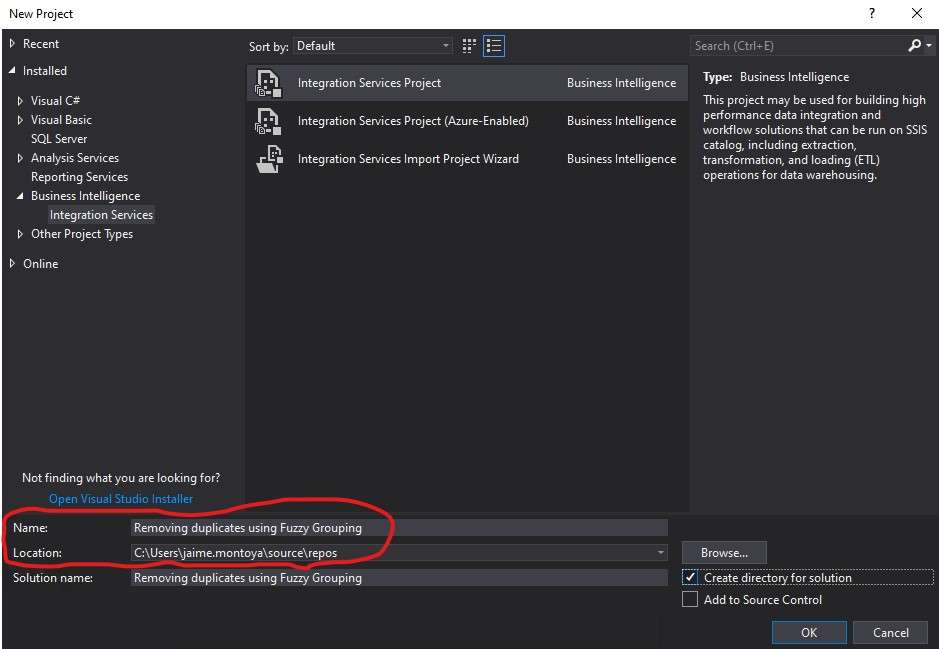
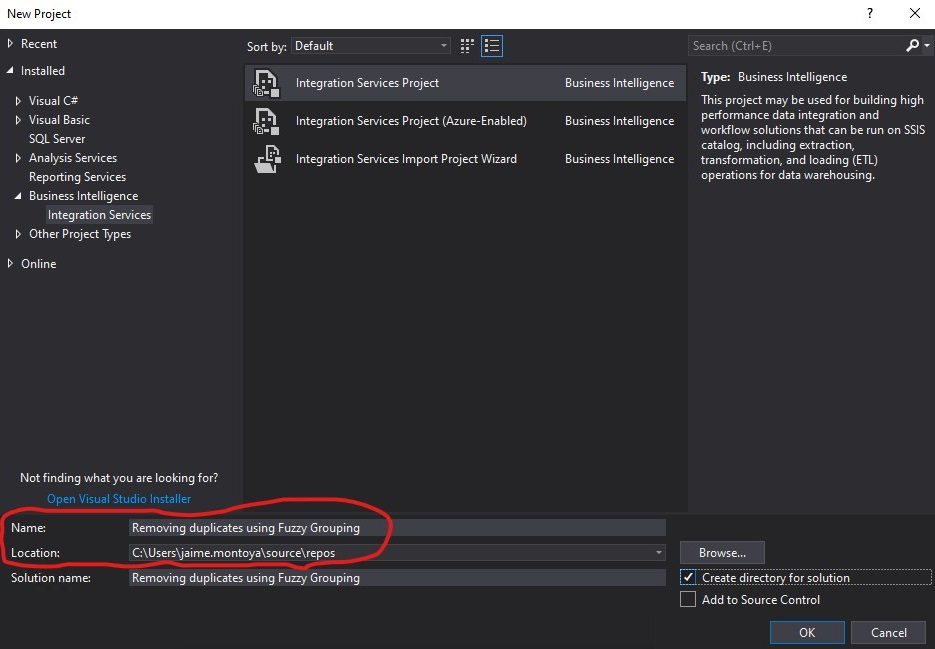
Modify picture.

diff --git a/blog/2023/12/12/05/59/book-info-20231212-0559.php b/blog/2023/12/12/05/59/book-info-20231212-0559.php
@@ -1,4 +1,4 @@
 <?php
   $index->content .= 
-           "<p>I used <a href=\"includes/FuzzyGroupingExample.txt\">FuzzyGroupingExample.txt</a> to create my reference table. I opened Visual Studio and created a new project:</p><div><img src=\"/blog/2023/12/12/05/59/img/createNewProject.jpg\" alt=\"Create new project\" width=\"619\" height=\"119\"></div><p>I provided a name and location for my new project:</p><div><img src=\"/blog/2023/12/12/05/59/img/provideNameAndLocationForNewProject.jpg\" alt=\"Provide name and location for new project\" width=\"939\" height=\"649\"></div><p>I created a <span class=\"cod\">Data Flow Task</span>:</p><div><img src=\"/blog/2023/12/12/05/59/img/createDataFlowTask.jpg\" alt=\"Create Data Flow Task\" width=\"732\" height=\"305\"></div><p>I right-clicked the <span class=\"cod\">Connection Managers</span> area and then clicked <span class=\"cod\">New Flat File Connection...</span></p><div><img src=\"/blog/2023/12/12/05/59/img/createNewFlatFileConnection.jpg\" alt=\"Create New Flat File Connection\" width=\"1042\" height=\"732\"></div><div>Published: 5:59 AM GMT · Dec 12, 2023</div>\n";
+           "<p>I used <a href=\"includes/FuzzyGroupingExample.txt\">FuzzyGroupingExample.txt</a> to create my reference table. I opened Visual Studio and created a new project:</p><div><img src=\"/blog/2023/12/12/05/59/img/createNewProject.jpg\" alt=\"Create new project\" width=\"619\" height=\"119\"></div><p>I provided a name and location for my new project:</p><div><img src=\"/blog/2023/12/12/05/59/img/provideNameAndLocationForNewProject.jpg\" alt=\"Provide name and location for new project\" width=\"935\" height=\"649\"></div><p>I created a <span class=\"cod\">Data Flow Task</span>:</p><div><img src=\"/blog/2023/12/12/05/59/img/createDataFlowTask.jpg\" alt=\"Create Data Flow Task\" width=\"732\" height=\"305\"></div><p>I right-clicked the <span class=\"cod\">Connection Managers</span> area and then clicked <span class=\"cod\">New Flat File Connection...</span></p><div><img src=\"/blog/2023/12/12/05/59/img/createNewFlatFileConnection.jpg\" alt=\"Create New Flat File Connection\" width=\"1042\" height=\"732\"></div><div>Published: 5:59 AM GMT · Dec 12, 2023</div>\n";
 ?>
